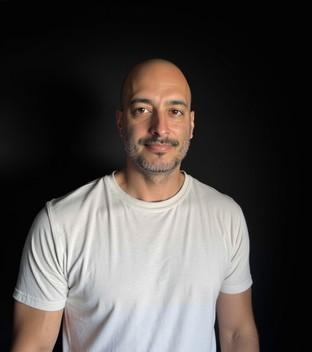
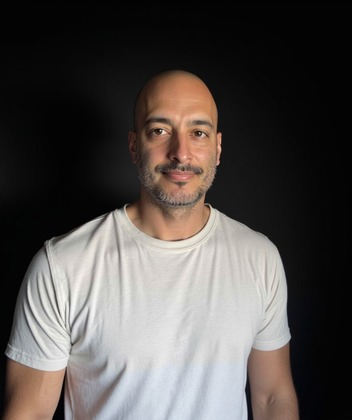
Corrige a foto da assinatura para não ficar esticada.
O recorte usa a mesma proporção do mockup.

diff --git a/public/email-signature.html b/public/email-signature.html
@@ -19,7 +19,7 @@
 <!-- EMAIL SIGNATURE START — Copy everything between START and END -->
 <table cellpadding="0" cellspacing="0" border="0" width="720" style="width:720px;max-width:720px;border-collapse:collapse;background-color:#2a2a2a;font-family:Montserrat,Arial,sans-serif;color:#ffffff;">
   <tr>
-    <td width="564" valign="middle" bgcolor="#2a2a2a" style="width:564px;background-color:#2a2a2a;vertical-align:middle;padding:16px 18px 16px 20px;">
+    <td width="544" valign="middle" bgcolor="#2a2a2a" style="width:544px;background-color:#2a2a2a;vertical-align:middle;padding:16px 18px 16px 20px;">
       <table cellpadding="0" cellspacing="0" border="0" width="100%" style="border-collapse:collapse;">
         <tr>
           <td width="156" valign="middle" style="width:156px;vertical-align:middle;padding-right:14px;">
@@ -57,8 +57,8 @@
         </tr>
       </table>
     </td>
-    <td width="156" valign="middle" bgcolor="#2a2a2a" style="width:156px;background-color:#2a2a2a;vertical-align:middle;">
-      <img src="https://adlerrochefort.com/images/headshot-signature.jpg" alt="Hugo Gon&#231;alves" width="156" height="176" style="display:block;border:0;width:156px;height:176px;">
+    <td width="176" valign="middle" bgcolor="#2a2a2a" style="width:176px;background-color:#2a2a2a;vertical-align:middle;">
+      <img src="https://adlerrochefort.com/images/headshot-signature.jpg" alt="Hugo Gon&#231;alves" width="176" height="210" style="display:block;border:0;width:176px;height:210px;">
     </td>
   </tr>
 </table>
